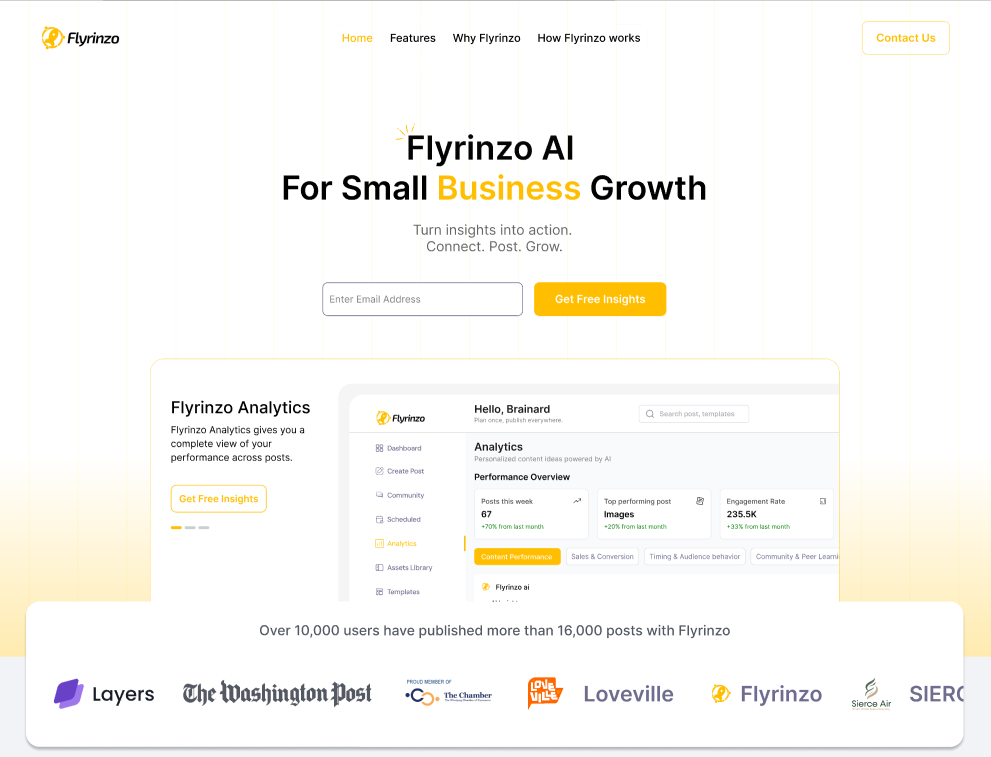
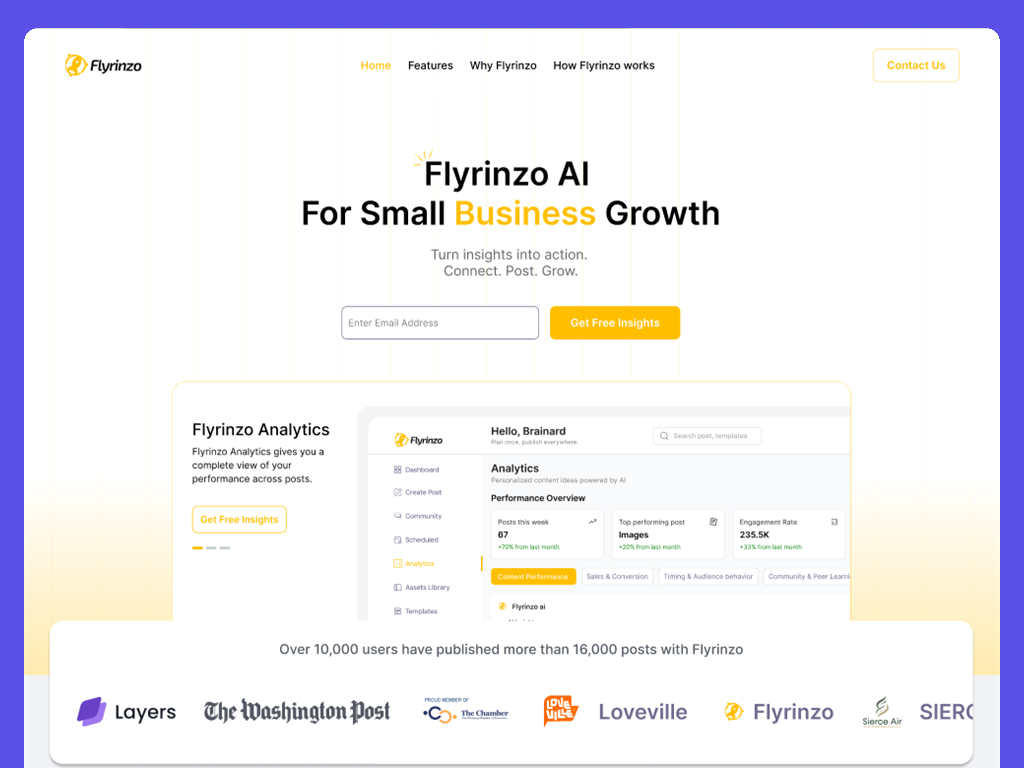
feat: scale and frame all project thumbnail images consistently with Tracman mockup

diff --git a/src/data/index.ts b/src/data/index.ts
@@ -12,7 +12,7 @@ import imgLogoRaw9 from "../assets/LandingPage-1/ebca9812717d7de0f182c515bcebabc
 import imgProject0 from "../assets/Works/habeep.png";
 import imgProject2 from "../assets/Works/flyrinzo.png";
 import imgProject3 from "../assets/Works/traclet.png";
-import imgWorksLoveville from "../assets/Works/loveville.jpg";
+import imgWorksLoveville from "../assets/Works/loveville.png";
 import imgWorksTracman from "../assets/Works/tracman_mockup.png";
 import imgAvatar0 from "../assets/LandingPage-1/cdd0e239cdc4f711bd9f452f8d8dca4dabd17547.png";
 import imgAvatar1 from "../assets/LandingPage-1/6259054dfd21c8de11534318ab98596ddbd7729a.png";
